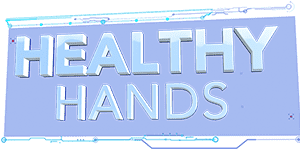
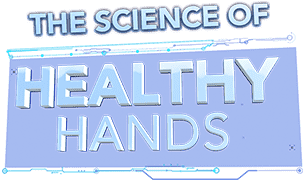
updates to bufferin

diff --git a/demopage/Bufferin/Bufferin_handSanitizer/img/300x600/index.js b/demopage/Bufferin/Bufferin_handSanitizer/img/300x600/index.js
@@ -52,7 +52,7 @@ p.nominalBounds = new cjs.Rectangle(0,0,173,383);
 (lib.txt_HealthyHands = function() {
 	this.initialize(img.txt_HealthyHands);
 }).prototype = p = new cjs.Bitmap();
-p.nominalBounds = new cjs.Rectangle(0,0,300,154);
+p.nominalBounds = new cjs.Rectangle(0,0,306,182);
 
 
 (lib.txt_kills = function() {
@@ -290,13 +290,13 @@ if (reversed == null) { reversed = false; }
 
 	// Layer_1
 	this.instance = new lib.txt_HealthyHands();
-	this.instance.setTransform(-300,0);
+	this.instance.setTransform(-302,0.55);
 
 	this.timeline.addTween(cjs.Tween.get(this.instance).wait(1));
 
 	this._renderFirstFrame();
 
-}).prototype = getMCSymbolPrototype(lib.healthyHands_mc, new cjs.Rectangle(-300,0,300,154), null);
+}).prototype = getMCSymbolPrototype(lib.healthyHands_mc, new cjs.Rectangle(-302,0.6,306,182), null);
 
 
 (lib.ctaBtn = function(mode,startPosition,loop,reversed) {
@@ -603,32 +603,32 @@ if (reversed == null) { reversed = false; }
 	// shine (mask)
 	var mask = new cjs.Shape();
 	mask._off = true;
-	var mask_graphics_9 = new cjs.Graphics().p("AydNyMAa7gjLIKAHoMga+AjLg");
-	var mask_graphics_10 = new cjs.Graphics().p("AydNyMAa7gjLIKAHoMga+AjLg");
-	var mask_graphics_11 = new cjs.Graphics().p("AycNyMAa6gjMIJ/HpMga8AjMg");
-	var mask_graphics_12 = new cjs.Graphics().p("AydNyMAa7gjMIKAHpMga+AjMg");
-	var mask_graphics_13 = new cjs.Graphics().p("AydNyMAa7gjMIJ/HpMga9AjLg");
-	var mask_graphics_14 = new cjs.Graphics().p("AycNyMAa6gjLIJ/HoMga9AjLg");
-	var mask_graphics_15 = new cjs.Graphics().p("AydNyMAa7gjMIKAHpMga+AjMg");
-	var mask_graphics_16 = new cjs.Graphics().p("AydNyMAa7gjMIKAHpMga9AjMg");
-	var mask_graphics_17 = new cjs.Graphics().p("AydNyMAa7gjMIKAHpMga9AjMg");
-	var mask_graphics_18 = new cjs.Graphics().p("AycNyMAa6gjMIJ/HpMga8AjMg");
-	var mask_graphics_19 = new cjs.Graphics().p("AydNyMAa7gjMIKAHpMga+AjMg");
-	var mask_graphics_20 = new cjs.Graphics().p("AycNyMAa6gjMIJ/HpMga8AjMg");
-	var mask_graphics_21 = new cjs.Graphics().p("AycNyMAa6gjMIJ/HpMga8AjLg");
-	var mask_graphics_22 = new cjs.Graphics().p("AycNyMAa6gjLIJ/HoMga9AjLg");
-	var mask_graphics_23 = new cjs.Graphics().p("AydNyMAa7gjMIKAHpMga9AjMg");
-	var mask_graphics_24 = new cjs.Graphics().p("AydNyMAa7gjLIKAHoMga+AjLg");
-	var mask_graphics_25 = new cjs.Graphics().p("AydNyMAa7gjLIKAHoMga9AjLg");
-	var mask_graphics_26 = new cjs.Graphics().p("AycNyMAa6gjMIJ/HpMga8AjMg");
-	var mask_graphics_49 = new cjs.Graphics().p("AycNyMAa6gjMIJ/HpMga8AjMg");
+	var mask_graphics_9 = new cjs.Graphics().p("AydNyMAa7gjMIKAHpMga9AjMg");
+	var mask_graphics_10 = new cjs.Graphics().p("AycNyMAa6gjLIJ/HoMga8AjLg");
+	var mask_graphics_11 = new cjs.Graphics().p("AycNyMAa6gjMIJ/HpMga9AjMg");
+	var mask_graphics_12 = new cjs.Graphics().p("AydNyMAa7gjLIKAHoMga+AjLg");
+	var mask_graphics_13 = new cjs.Graphics().p("AycNyMAa6gjMIJ/HpMga8AjMg");
+	var mask_graphics_14 = new cjs.Graphics().p("AycNyMAa6gjMIJ/HpMga9AjMg");
+	var mask_graphics_15 = new cjs.Graphics().p("AycNyMAa6gjLIJ/HoMga9AjLg");
+	var mask_graphics_16 = new cjs.Graphics().p("AydNyMAa7gjMIJ/HpMga9AjMg");
+	var mask_graphics_17 = new cjs.Graphics().p("AycNyMAa6gjMIJ/HpMga8AjMg");
+	var mask_graphics_18 = new cjs.Graphics().p("AycNyMAa6gjMIJ/HpMga9AjMg");
+	var mask_graphics_19 = new cjs.Graphics().p("AydNyMAa7gjMIKAHpMga9AjMg");
+	var mask_graphics_20 = new cjs.Graphics().p("AydNyMAa7gjLIKAHoMga9AjLg");
+	var mask_graphics_21 = new cjs.Graphics().p("AycNyMAa6gjMIJ/HpMga8AjMg");
+	var mask_graphics_22 = new cjs.Graphics().p("AycNyMAa6gjMIJ/HpMga8AjMg");
+	var mask_graphics_23 = new cjs.Graphics().p("AydNyMAa7gjLIKAHoMga9AjLg");
+	var mask_graphics_24 = new cjs.Graphics().p("AycNyMAa6gjMIJ/HpMga8AjMg");
+	var mask_graphics_25 = new cjs.Graphics().p("AycNyMAa6gjLIJ/HoMga9AjLg");
+	var mask_graphics_26 = new cjs.Graphics().p("AydNyMAa7gjMIJ/HpMga9AjMg");
+	var mask_graphics_49 = new cjs.Graphics().p("AydNyMAa7gjMIJ/HpMga9AjMg");
 
-	this.timeline.addTween(cjs.Tween.get(mask).to({graphics:null,x:0,y:0}).wait(9).to({graphics:mask_graphics_9,x:-39.15,y:20.4}).wait(1).to({graphics:mask_graphics_10,x:-36.35,y:21.45}).wait(1).to({graphics:mask_graphics_11,x:-27.85,y:24.55}).wait(1).to({graphics:mask_graphics_12,x:-13.75,y:29.8}).wait(1).to({graphics:mask_graphics_13,x:6.05,y:37.1}).wait(1).to({graphics:mask_graphics_14,x:31.45,y:46.5}).wait(1).to({graphics:mask_graphics_15,x:62.55,y:57.95}).wait(1).to({graphics:mask_graphics_16,x:99.25,y:71.55}).wait(1).to({graphics:mask_graphics_17,x:141.65,y:87.2}).wait(1).to({graphics:mask_graphics_18,x:188.25,y:104.4}).wait(1).to({graphics:mask_graphics_19,x:230.6,y:120.05}).wait(1).to({graphics:mask_graphics_20,x:267.35,y:133.65}).wait(1).to({graphics:mask_graphics_21,x:298.4,y:145.1}).wait(1).to({graphics:mask_graphics_22,x:323.85,y:154.5}).wait(1).to({graphics:mask_graphics_23,x:343.6,y:161.8}).wait(1).to({graphics:mask_graphics_24,x:357.75,y:167}).wait(1).to({graphics:mask_graphics_25,x:366.2,y:170.15}).wait(1).to({graphics:mask_graphics_26,x:369.05,y:171.2}).wait(23).to({graphics:mask_graphics_49,x:369.05,y:171.2}).wait(1).to({graphics:null,x:0,y:0}).wait(319));
+	this.timeline.addTween(cjs.Tween.get(mask).to({graphics:null,x:0,y:0}).wait(9).to({graphics:mask_graphics_9,x:-49.15,y:51.4}).wait(1).to({graphics:mask_graphics_10,x:-46.2,y:52.25}).wait(1).to({graphics:mask_graphics_11,x:-37.4,y:54.9}).wait(1).to({graphics:mask_graphics_12,x:-22.75,y:59.25}).wait(1).to({graphics:mask_graphics_13,x:-2.2,y:65.35}).wait(1).to({graphics:mask_graphics_14,x:24.25,y:73.15}).wait(1).to({graphics:mask_graphics_15,x:56.55,y:82.75}).wait(1).to({graphics:mask_graphics_16,x:94.7,y:94.05}).wait(1).to({graphics:mask_graphics_17,x:138.75,y:107.1}).wait(1).to({graphics:mask_graphics_18,x:187.15,y:121.5}).wait(1).to({graphics:mask_graphics_19,x:231.2,y:134.55}).wait(1).to({graphics:mask_graphics_20,x:269.35,y:145.85}).wait(1).to({graphics:mask_graphics_21,x:301.65,y:155.45}).wait(1).to({graphics:mask_graphics_22,x:328.1,y:163.25}).wait(1).to({graphics:mask_graphics_23,x:348.65,y:169.35}).wait(1).to({graphics:mask_graphics_24,x:363.3,y:173.7}).wait(1).to({graphics:mask_graphics_25,x:372.1,y:176.35}).wait(1).to({graphics:mask_graphics_26,x:375.05,y:177.2}).wait(23).to({graphics:mask_graphics_49,x:375.05,y:177.2}).wait(1).to({graphics:null,x:0,y:0}).wait(319));
 
 	// Layer_34
 	this.shape = new cjs.Shape();
[1 lines of base64/hex data omitted]
-	this.shape.setTransform(152.55,107.225);
[1 lines of base64/hex data omitted]
+	this.shape.setTransform(152.55,138.225);
 	this.shape._off = true;
 
 	var maskedShapeInstanceList = [this.shape];
@@ -650,7 +650,7 @@ if (reversed == null) { reversed = false; }
 	this._renderFirstFrame();
 
 }).prototype = p = new cjs.MovieClip();
-p.nominalBounds = new cjs.Rectangle(0,0,301.4,181.5);
+p.nominalBounds = new cjs.Rectangle(-0.8,0,306,210.5);
 
 
 (lib.Ribbon_mc = function(mode,startPosition,loop,reversed) {
@@ -831,12 +831,12 @@ if (reversed == null) { reversed = false; }
 
 	this.timeline.addTween(cjs.Tween.get(this.instance_3).wait(150).to({_off:false},0).to({x:211},14,cjs.Ease.quadOut).wait(27).to({y:477.85},9,cjs.Ease.quadInOut).wait(157));
 
-	// Layer_46
+	// txt_HealthyHands_animation
 	this.instance_4 = new lib.txt_HealthyHands_animation("synched",0,false);
-	this.instance_4.setTransform(-1.25,-8.55);
+	this.instance_4.setTransform(-1.25,-0.05);
 	this.instance_4._off = true;
 
-	this.timeline.addTween(cjs.Tween.get(this.instance_4).wait(191).to({_off:false},0).to({y:31.95,startPosition:9},9,cjs.Ease.quadOut).wait(40).to({mode:"single",startPosition:49},0).wait(117));
+	this.timeline.addTween(cjs.Tween.get(this.instance_4).wait(191).to({_off:false},0).wait(49).to({mode:"single",startPosition:49},0).wait(117));
 
 	// txt_notSticky_animation
 	this.instance_5 = new lib.txt_notSticky_animation("synched",0,false);
@@ -906,13 +906,13 @@ lib.properties = {
 	color: "#FFFFFF",
 	opacity: 1.00,
 	manifest: [
-		{src:"amazonLogo.png?1611083715529", id:"amazonLogo"},
-		{src:"billNye.jpg?1611083715529", id:"billNye"},
-		{src:"BillNye_02.jpg?1611083715529", id:"BillNye_02"},
-		{src:"Product_bottle.jpg?1611083715529", id:"Product_bottle"},
-		{src:"txt_HealthyHands.png?1611083715529", id:"txt_HealthyHands"},
-		{src:"txt_kills.png?1611083715529", id:"txt_kills"},
-		{src:"txt_sticky.png?1611083715529", id:"txt_sticky"}
+		{src:"amazonLogo.png", id:"amazonLogo"},
+		{src:"billNye.jpg", id:"billNye"},
+		{src:"BillNye_02.jpg", id:"BillNye_02"},
+		{src:"Product_bottle.jpg", id:"Product_bottle"},
+		{src:"txt_HealthyHands.png", id:"txt_HealthyHands"},
+		{src:"txt_kills.png", id:"txt_kills"},
+		{src:"txt_sticky.png", id:"txt_sticky"}
 	],
 	preloads: []
 };
